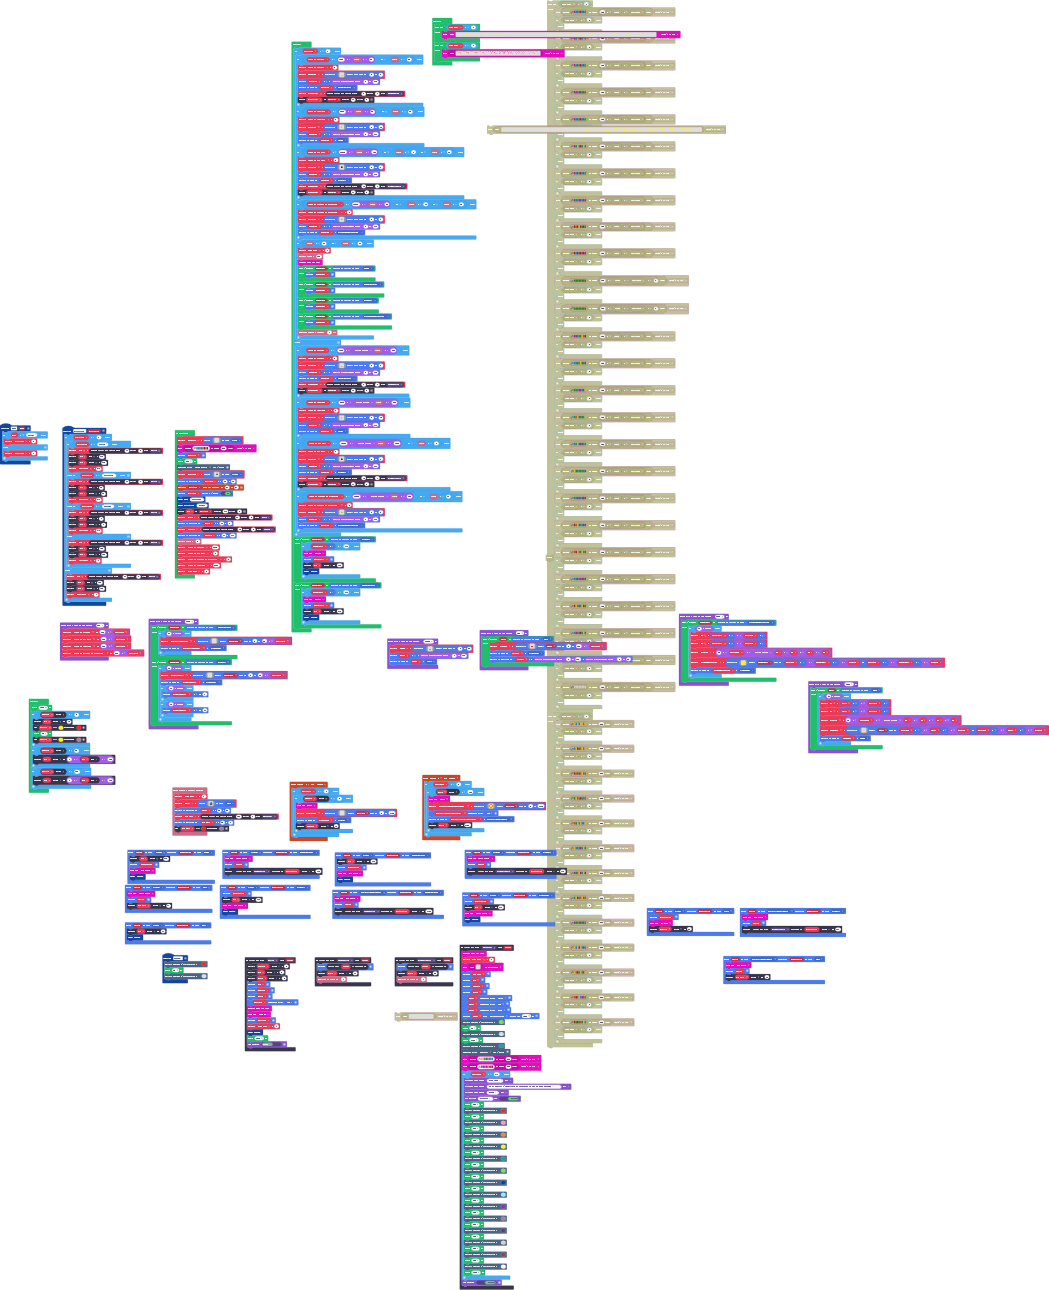
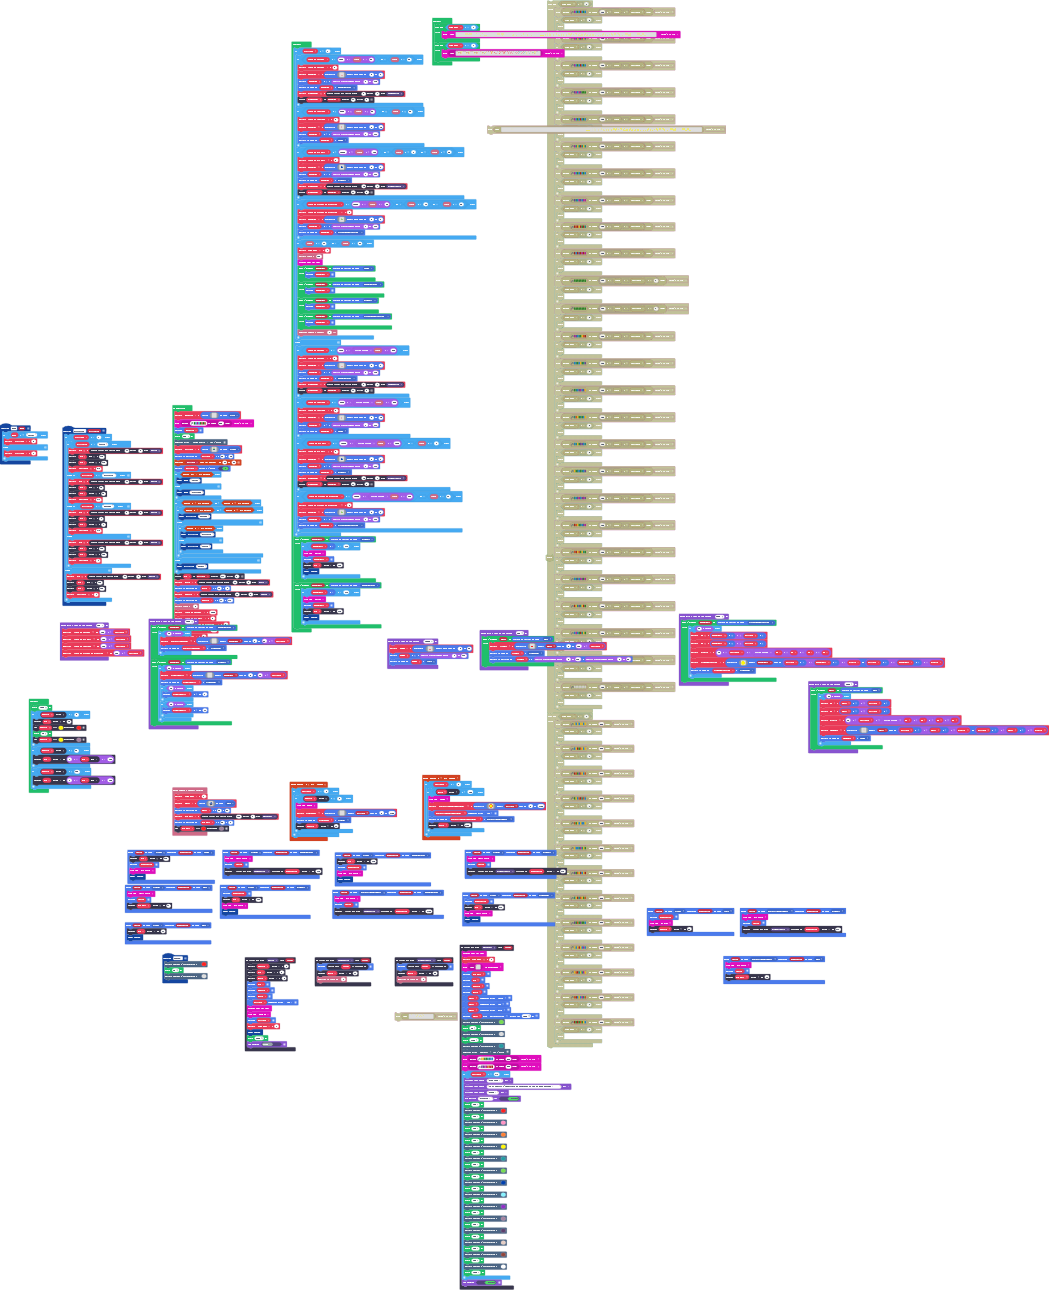
Mise à jour pxt.json, main.blocks, main.ts

Changed region(s): [[0.1525, 0.3101, 0.2745, 0.4961]]

diff --git a/main.ts b/main.ts
@@ -309,8 +309,24 @@ vaisseau = sprites.create(img`
 vaisseau.setPosition(80, 90)
 controller.moveSprite(vaisseau, 85, 85)
 vaisseau.setStayInScreen(true)
-mode("classique")
-Difficilté("normal")
+if (controller.down.isPressed()) {
+    mode("infini")
+} else {
+    mode("classique")
+}
+if (controller.B.isPressed() || controller.A.isPressed()) {
+    if (controller.B.isPressed() && controller.A.isPressed()) {
+        Difficilté("extrême")
+    } else {
+        if (controller.A.isPressed()) {
+            Difficilté("difficile")
+        } else {
+            Difficilté("facile")
+        }
+    }
+} else {
+    Difficilté("normal")
+}
 vie.attachToSprite(vaisseau, -17, 0)
 magie = statusbars.create(25, 4, StatusBarKind.Magic)
 magie.setPosition(16, 6)
